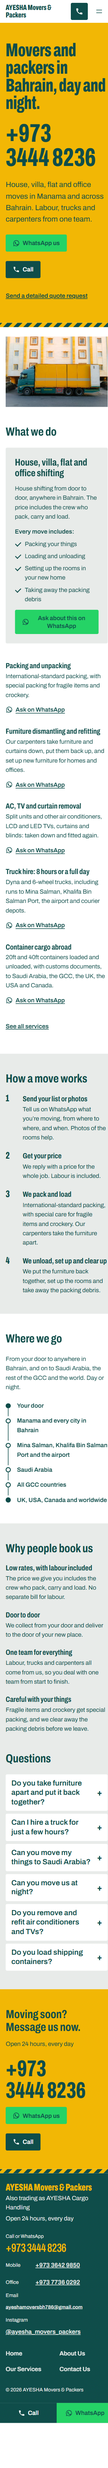
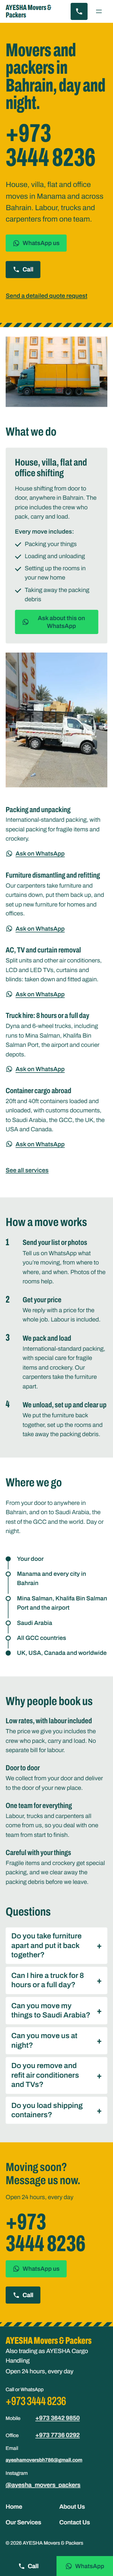
Phase 4 review fixes: photo 12 under the lead card, full-width route, FAQ truck question
- What we do: photo 12 (366x480, WebP, descriptive alt) under the lead service card;
  one Image block, so on phones it shows once between the card and the rows.
- Where we go: heading and intro on top; route across the full content width with
  auto-sized grid columns (each label at most 2 lines at 1280).
- FAQ: "Can I hire a truck for 8 hours or a full day?".
- Mobile gutters verified at 320/375/414 with phone emulation (16px both sides); the
  2px seen before came from the desktop scrollbar in the old screenshots.
- Screenshots re-taken (phones/tablet with emulation), before/after comparisons,
  docs/content re-exported, editing guide and PROGRESS test table updated.

diff --git a/docs/content/patterns/ayesha-where-we-go.html b/docs/content/patterns/ayesha-where-we-go.html
@@ -1,17 +1,13 @@
 <!-- wp:group {"metadata":{"name":"Where we go"},"tagName":"section","align":"full","className":"ayesha-section ayesha-where","style":{"spacing":{"padding":{"top":"var:preset|spacing|60","bottom":"var:preset|spacing|60"}}},"layout":{"type":"constrained"}} -->
-<section class="wp-block-group alignfull ayesha-section ayesha-where" style="padding-top:var(--wp--preset--spacing--60);padding-bottom:var(--wp--preset--spacing--60)"><!-- wp:columns {"className":"ayesha-where__columns","style":{"spacing":{"blockGap":{"top":"var:preset|spacing|40","left":"var:preset|spacing|50"}}}} -->
-<div class="wp-block-columns ayesha-where__columns"><!-- wp:column {"width":"38%"} -->
-<div class="wp-block-column" style="flex-basis:38%"><!-- wp:heading -->
+<section class="wp-block-group alignfull ayesha-section ayesha-where" style="padding-top:var(--wp--preset--spacing--60);padding-bottom:var(--wp--preset--spacing--60)"><!-- wp:heading -->
 <h2 class="wp-block-heading">Where we go</h2>
 <!-- /wp:heading -->
 
 <!-- wp:paragraph -->
 <p>From your door to anywhere in Bahrain, and on to Saudi Arabia, the rest of the GCC and the world. Day or night.</p>
-<!-- /wp:paragraph --></div>
-<!-- /wp:column -->
+<!-- /wp:paragraph -->
 
-<!-- wp:column {"width":"62%"} -->
-<div class="wp-block-column" style="flex-basis:62%"><!-- wp:list {"className":"ayesha-route"} -->
+<!-- wp:list {"className":"ayesha-route"} -->
 <ul class="wp-block-list ayesha-route"><!-- wp:list-item -->
 <li>Your door</li>
 <!-- /wp:list-item -->
@@ -35,7 +31,5 @@
 <!-- wp:list-item -->
 <li>UK, USA, Canada and worldwide</li>
 <!-- /wp:list-item --></ul>
-<!-- /wp:list --></div>
-<!-- /wp:column --></div>
-<!-- /wp:columns --></section>
+<!-- /wp:list --></section>
 <!-- /wp:group -->

diff --git a/docs/content/home.html b/docs/content/home.html
@@ -85,7 +85,10 @@
 <div class="wp-block-button is-style-whatsapp"><a class="wp-block-button__link wp-element-button" href="https://wa.me/97334448236">Ask about this on WhatsApp</a></div>
 <!-- /wp:button --></div>
 <!-- /wp:buttons --></div>
-<!-- /wp:group --></div>
+<!-- /wp:group -->
+<!-- wp:image {"id":12,"sizeSlug":"full","linkDestination":"none","className":"ayesha-services__photo"} -->
+<figure class="wp-block-image size-full ayesha-services__photo"><img src="http://localhost/ayesha-movers/wp-content/uploads/2026/10/pickup-loaded-with-household-goods.webp" alt="Small white pickup truck loaded with boxes and furniture outside a building" class="wp-image-12"/></figure>
+<!-- /wp:image --></div>
 <!-- /wp:column -->
 
 <!-- wp:column {"width":"42%","className":"ayesha-services__rows"} -->
@@ -337,7 +340,7 @@
 <!-- /wp:details -->
 
 <!-- wp:details -->
-<details class="wp-block-details"><summary>Can I hire a truck for just a few hours?</summary><!-- wp:paragraph -->
+<details class="wp-block-details"><summary>Can I hire a truck for 8 hours or a full day?</summary><!-- wp:paragraph -->
 <p>Yes. You can hire a Dyna or a 6-wheel truck for 8 hours or for a full day. We also do runs to Mina Salman, Khalifa Bin Salman Port, the airport and courier depots such as DHL, Aramex and GLS.</p>
 <!-- /wp:paragraph --></details>
 <!-- /wp:details -->
@@ -371,4 +374,3 @@
 <!-- /wp:group -->
 
 <!-- wp:block {"ref":26} /-->
-

diff --git a/wp-content/themes/ayesha-movers/assets/css/theme.css b/wp-content/themes/ayesha-movers/assets/css/theme.css
@@ -810,6 +810,17 @@ a[href^="mailto:"] {
 	transform: rotate(45deg);
 }
 
+/* Photo 12 under the lead card, at its natural size (366 x 480). */
+.ayesha-services__photo {
+	margin-block: var(--wp--preset--spacing--40) 0;
+}
+
+.ayesha-services__photo img {
+	display: block;
+	max-width: 100%;
+	height: auto;
+}
+
 .ayesha-services__rows > * {
 	margin-block: 0;
 }
@@ -949,12 +960,21 @@ a[href^="mailto:"] {
 	padding-block-end: 0;
 }
 
+/* The route runs across the full content width under the heading and intro. */
+.ayesha-where > .ayesha-route {
+	margin-block-start: var(--wp--preset--spacing--50);
+	max-inline-size: var(--wp--style--global--content-size);
+}
+
+/* Desktop: left to right, one row whatever the number of stops. Auto-sized grid columns:
+   short names keep their full width and the spare room goes to the long ones
+   (two lines at most at 1280px). */
 @media (min-width: 960px) {
 	.ayesha-route {
 		display: grid;
-		grid-template-columns: repeat(6, minmax(0, 1fr));
+		grid-auto-flow: column;
+		grid-auto-columns: auto;
 		column-gap: var(--wp--preset--spacing--30);
-		padding-block-start: var(--wp--preset--spacing--20);
 	}
 
 	.ayesha-route > li {

diff --git a/wp-content/themes/ayesha-movers/patterns/what-we-do.php b/wp-content/themes/ayesha-movers/patterns/what-we-do.php
@@ -4,12 +4,14 @@
  * Slug: ayesha-movers/what-we-do
  * Categories: ayesha-movers
  * Keywords: services, shifting, packing, furniture, trucks, cargo
- * Description: House shifting as the large lead card with what's included, then the other five services as short rows. Each title links to its section on Our Services; each WhatsApp link opens a chat with the service name already typed.
+ * Description: House shifting as the large lead card with what's included and a photo under it, then the other five services as short rows. Each title links to its section on Our Services; each WhatsApp link opens a chat with the service name already typed.
  *
  * @package AyeshaMovers
  */
 
 $ayesha_services_url = home_url( '/our-services/' );
+$ayesha_photo_url    = wp_get_attachment_image_url( 12, 'full' );
+$ayesha_photo_alt    = (string) get_post_meta( 12, '_wp_attachment_image_alt', true );
 
 /*
  * One compact service row. The WhatsApp link's message is in the button's binding ("message"),
@@ -73,11 +75,15 @@ $ayesha_row = static function ( $anchor, $title, $text, $service ) use ( $ayesha
 <!-- /wp:list -->
 
 <!-- wp:buttons -->
-<div class="wp-block-buttons"><!-- wp:button {"className":"is-style-whatsapp","metadata":{"bindings":{"url":{"source":"ayesha/business","args":{"key":"whatsapp_url","message":"Hi AYESHA Movers & Packers, I'd like a price for house, villa, flat or office shifting."}}},"name":"WhatsApp: house shifting"}} -->
+<div class="wp-block-buttons"><!-- wp:button {"className":"is-style-whatsapp","metadata":{"bindings":{"url":{"source":"ayesha/business","args":{"key":"whatsapp_url","message":"Hi AYESHA Movers \u0026 Packers, I'd like a price for house, villa, flat or office shifting."}}},"name":"WhatsApp: house shifting"}} -->
 <div class="wp-block-button is-style-whatsapp"><a class="wp-block-button__link wp-element-button" href="https://wa.me/97334448236">Ask about this on WhatsApp</a></div>
 <!-- /wp:button --></div>
 <!-- /wp:buttons --></div>
-<!-- /wp:group --></div>
+<!-- /wp:group --><?php if ( $ayesha_photo_url ) : ?>
+
+<!-- wp:image {"id":12,"sizeSlug":"full","linkDestination":"none","className":"ayesha-services__photo"} -->
+<figure class="wp-block-image size-full ayesha-services__photo"><img src="<?php echo esc_url( $ayesha_photo_url ); ?>" alt="<?php echo esc_attr( $ayesha_photo_alt ); ?>" class="wp-image-12"/></figure>
+<!-- /wp:image --><?php endif; ?></div>
 <!-- /wp:column -->
 
 <!-- wp:column {"width":"42%","className":"ayesha-services__rows"} -->

diff --git a/wp-content/themes/ayesha-movers/patterns/where-we-go.php b/wp-content/themes/ayesha-movers/patterns/where-we-go.php
@@ -16,19 +16,15 @@ if ( $ayesha_ref ) {
 }
 ?>
 <!-- wp:group {"metadata":{"name":"Where we go"},"tagName":"section","align":"full","className":"ayesha-section ayesha-where","style":{"spacing":{"padding":{"top":"var:preset|spacing|60","bottom":"var:preset|spacing|60"}}},"layout":{"type":"constrained"}} -->
-<section class="wp-block-group alignfull ayesha-section ayesha-where" style="padding-top:var(--wp--preset--spacing--60);padding-bottom:var(--wp--preset--spacing--60)"><!-- wp:columns {"className":"ayesha-where__columns","style":{"spacing":{"blockGap":{"top":"var:preset|spacing|40","left":"var:preset|spacing|50"}}}} -->
-<div class="wp-block-columns ayesha-where__columns"><!-- wp:column {"width":"38%"} -->
-<div class="wp-block-column" style="flex-basis:38%"><!-- wp:heading -->
+<section class="wp-block-group alignfull ayesha-section ayesha-where" style="padding-top:var(--wp--preset--spacing--60);padding-bottom:var(--wp--preset--spacing--60)"><!-- wp:heading -->
 <h2 class="wp-block-heading">Where we go</h2>
 <!-- /wp:heading -->
 
 <!-- wp:paragraph -->
 <p>From your door to anywhere in Bahrain, and on to Saudi Arabia, the rest of the GCC and the world. Day or night.</p>
-<!-- /wp:paragraph --></div>
-<!-- /wp:column -->
+<!-- /wp:paragraph -->
 
-<!-- wp:column {"width":"62%"} -->
-<div class="wp-block-column" style="flex-basis:62%"><!-- wp:list {"className":"ayesha-route"} -->
+<!-- wp:list {"className":"ayesha-route"} -->
 <ul class="wp-block-list ayesha-route"><!-- wp:list-item -->
 <li>Your door</li>
 <!-- /wp:list-item -->
@@ -52,7 +48,5 @@ if ( $ayesha_ref ) {
 <!-- wp:list-item -->
 <li>UK, USA, Canada and worldwide</li>
 <!-- /wp:list-item --></ul>
-<!-- /wp:list --></div>
-<!-- /wp:column --></div>
-<!-- /wp:columns --></section>
+<!-- /wp:list --></section>
 <!-- /wp:group -->

diff --git a/wp-content/themes/ayesha-movers/inc/pattern-parts.php b/wp-content/themes/ayesha-movers/inc/pattern-parts.php
@@ -51,7 +51,7 @@ function ayesha_theme_reasons_markup() {
 function ayesha_theme_questions_markup() {
 	$faq   = array(
 		array( 'Do you take furniture apart and put it back together?', 'Yes. Our carpenters dismantle your furniture before the move and fit them back together in your new home or office. They also take down and put up curtains, and set up new furniture.' ),
-		array( 'Can I hire a truck for just a few hours?', 'Yes. You can hire a Dyna or a 6-wheel truck for 8 hours or for a full day. We also do runs to Mina Salman, Khalifa Bin Salman Port, the airport and courier depots such as DHL, Aramex and GLS.' ),
+		array( 'Can I hire a truck for 8 hours or a full day?', 'Yes. You can hire a Dyna or a 6-wheel truck for 8 hours or for a full day. We also do runs to Mina Salman, Khalifa Bin Salman Port, the airport and courier depots such as DHL, Aramex and GLS.' ),
 		array( 'Can you move my things to Saudi Arabia?', 'Yes. We move households and offices to Saudi Arabia and the other GCC countries, and to the UK, the USA, Canada and worldwide. We also handle the customs documents.' ),
 		array( 'Can you move us at night?', 'Yes. We work 24 hours, day and night. Tell us the time that suits you.' ),
 		array( 'Do you remove and refit air conditioners and TVs?', 'Yes. We take down and fit split units and other air conditioners, LCD and LED TVs, and curtains and blinds.' ),

diff --git a/PROGRESS.md b/PROGRESS.md
@@ -35,7 +35,7 @@ Main goal: get mobile visitors to WhatsApp or call in one tap, or to send a deta
 | 9 | yellow-box-truck-residential-building | OK | Home hero (560px WebP copy). No caption; alt describes only what's visible |
 | 10 | movers-carrying-white-sofa | **PLACEHOLDER ONLY** | Looks like a stock photo; replace with a real client photo before go-live (or confirm licence) |
 | 11 | white-pickup-truck-cargo-rails | **DO NOT USE** | Shows phone number 0524070463 (not an AYESHA number) |
-| 12 | pickup-loaded-with-household-goods | OK | |
+| 12 | pickup-loaded-with-household-goods | OK | Home, under the house-shifting card (366 x 480, natural size, WebP). Alt describes only what's visible |
 | 13 | crew-loading-wrapped-furniture | **DO NOT USE** | Appears AI-generated |
 | 14 | red-curtain-side-truck | OK | |
 | 15 | large-box-truck-with-driver | OK | |
@@ -101,6 +101,8 @@ In the Media Library, the tags are prefixed to the title (`[DO NOT USE]`, `[PLAC
 - 2026-10-01: Shared sections: the theme's CTA band and Where we go patterns insert the synced pattern (found by slug) when it exists, otherwise the plain blocks.
 - 2026-10-01: Footer contact label column widened 4rem to 4.75rem ("Instagram" broke onto two lines at 1280px; Phase 3 issue found in Phase 4).
 - 2026-10-01: Lighthouse 12.8.2 run with `npx` (user approved the download). The first run hit "Fatal process out of memory" (about 1 GB of RAM free); each report was then run on its own from the npx cache.
+- 2026-10-01: Phase 4 review fixes (user request): photo 12 under the lead service card (one Image block; on phones it sits between the card and the rows); "Where we go" changed to heading + intro on top and the route across the full width (auto-sized grid columns, one row for any number of stops); FAQ "Can I hire a truck for 8 hours or a full day?". Mobile gutters were already equal (16px both sides): the 2px right gutter in the earlier screenshots came from the desktop browser's 15px scrollbar, so mobile screenshots are now taken with real phone emulation (no scrollbar).
+- 2026-10-01: WebP regeneration makes WordPress use the WebP copy as each photo's main file (photos 9 and 12); the uploaded JPEG is kept and recorded as `original_image`.
 - 2026-10-01: Outside this session, `phase-1-setup` was renamed to `main` and pushed to origin. `phase-1-setup` was recreated from `main` for the final Phase 1 commit, then fast-forward merged into `main`.
 
 ## Open questions for the client
@@ -195,7 +197,7 @@ Screenshots: `docs/screenshots/phase-3/` (`<width>-top.png` and `<width>-bottom.
 Before/after for the review fixes: `docs/screenshots/phase-3/compare-fix1-footer-375.png`, `compare-fix1-footer-320.png`, `compare-fix1-footer-1280.png`, `compare-fix2-header-1280.png`, `compare-fix3-menu-375.png`; originals in `before/` and `after/`, JSON-LD in `before/fix4-jsonld.json` and `after/fix4-jsonld.json`.
 
 ### Phase 4 (run 2026-10-01)
-Screenshots: `docs/screenshots/phase-4/` (`full-<width>.png` at 320, 375, 768, 1280, 1920; `hero-long-number-*.png`, `hero-no-photo-*.png`, `reviews-on-*.png`). In the full-page shots the sticky bar and floating button are pinned to the page bottom (where they sit once scrolled to the end) instead of mid-page. Lighthouse reports: `docs/lighthouse/phase-4/`.
+Screenshots: `docs/screenshots/phase-4/` (`full-<width>.png` at 320, 375, 414, 768 (taken with phone/tablet emulation: no scrollbar, touch) and 1280, 1920 (desktop browser); before/after of the review fixes: `compare-375.png`, `compare-1280.png`, originals in `before/`; `hero-long-number-*.png`, `hero-no-photo-*.png`, `reviews-on-*.png`). In the full-page shots the sticky bar and floating button are pinned to the page bottom (where they sit once scrolled to the end) instead of mid-page. Lighthouse reports: `docs/lighthouse/phase-4/`.
 
 | # | Test | Expected | Actual | Pass/Fail |
 |---|---|---|---|---|
@@ -210,7 +212,7 @@ Screenshots: `docs/screenshots/phase-4/` (`full-<width>.png` at 320, 375, 768, 1
 | 6 | Reviews hidden with the toggle off; visible with it on; off again | Off: not in the HTML; on: 3 placeholder cards | Off: 0 matches for `ayesha-reviews` / "Placeholder". On: 3 cards "Placeholder: replace with a real customer review" (`reviews-on-375.png`, `-1280.png`). Off again: 0 matches; settings identical to the backup | Pass |
 | 7 | Service WhatsApp links | Right number; URL-encoded text naming the service | 8 links in the page content, all `wa.me/97334448236`: hero + CTA band ("...a price for my move."), lead card ("...house, villa, flat or office shifting."), packing and unpacking, furniture dismantling and refitting, AC, TV or curtain removal and fitting, truck hire (Dyna or 6-wheel truck), international cargo (20ft or 40ft container). Encoded with `rawurlencode` (`%20`, `%26` for &, `%27` for ', `%28`/`%29` for brackets); each decodes back to the exact message | Pass |
 | 8 | Anchors to Our Services / Contact Us | Each goes to the right place | Links: `/our-services/#house-shifting`, `#packing`, `#furniture`, `#appliances`, `#trucks`, `#cargo`; "See all services" to `/our-services/`; "Send a detailed quote request" to `/contact-us/#quote`. Both pages return 200; **the target ids don't exist yet** (Our Services is built in Phase 5, the quote form in Phase 6) | Pass (anchors pending Phases 5/6) |
-| 9 | Responsive full-page screenshots | 5 widths, no h-scroll | `full-320/375/768/1280/1920.png`; page heights 6802 / 6259 / 5835 / 4238 / 4238 px; no horizontal scroll and no element past the right edge at any width | Pass |
+| 9 | Responsive full-page screenshots | 5 widths, no h-scroll | Re-taken after the review fixes: `full-320/375/414/768/1280/1920.png`; page heights 7232 / 6761 / 6638 / 6369 / 4293 / 4293 px; no horizontal scroll at any width | Pass |
 | 10 | Heading order | One H1, no skipped levels | Outline 1 2 3 3 3 3 3 3 2 2 2 3 3 3 3 2 2: one H1, no skips | Pass |
 | 11 | Images have alt text | All | 1 image (photo 9, 560px WebP, `fetchpriority=high`, width/height set), alt "Large yellow box truck with a green cab parked outside a residential apartment building" (no ownership claim). Photos 10, 11, 13 not used | Pass |
 | 12 | SEO title and meta description (design plan 7) | Exact text | `<title>` "Movers and Packers in Bahrain, 24 Hours &#124; AYESHA Movers" (55 chars); description exactly as the plan (154 chars) | Pass |
@@ -222,3 +224,9 @@ Screenshots: `docs/screenshots/phase-4/` (`full-<width>.png` at 320, 375, 768, 1
 | 18 | debug.log | Nothing new | No lines from Phase 4. The file holds only 3 older entries (10:58 and 12:10 UTC, before this session started) | Pass |
 | 19 | Mobile hero order (design plan 3.1) | Yellow text panel, strip, then photo on white | As expected at 320/375/768; desktop: photo on the yellow, bottom edge on the strip | Pass |
 | 20 | Desktop hero row | Quote link beside the buttons | After a fix: link and buttons share the same vertical middle (582.5 px) | Pass (after fix) |
+| 21 | Review fix 1: mobile gutters with real phone emulation (no scrollbar, touch, iPhone user agent) at 320 / 375 / 414 | Equal 16px gutter on both sides; nothing touches an edge | Checked every heading, paragraph, list item, button, card, FAQ box, image and column in the page content. Narrowest gutter left / right: 320: 16.0 / 16.0; 375: 16.0 / 16.0; 414: 16.3 / 16.3 (the theme's fluid side padding starts to grow above 375). No element touches either edge (the hero's yellow background is full-bleed by design; its content is inset 16px). Cause of the reported 2px: the earlier 375px screenshots were taken in a desktop browser whose 15px scrollbar takes space from the right. Measured against `visualViewport.width`, because the emulator reports 375.2 / 414.4 px even for a blank page | Pass (no CSS change needed; screenshots re-taken) |
+| 22 | Review fix 2: photo 12 under the lead card | Desktop: fills the gap on the left; phones: shown once, order unchanged | 1280: photo at 366 x 480 (natural size, WebP), alt "Small white pickup truck loaded with boxes and furniture outside a building"; the left column's content now ends about 30 px below the last row's link (before: the card ended about 480 px above it). 375: one `wp-image-12` on the page, between the lead card and the rows | Pass |
+| 23 | Review fix 3: Where we go, route across the full width | Each label at most 2 lines at 1280 | Heading and intro on top, route below across 1200px. Lines per label at 1280 and 1920: Your door 1, Manama and every city in Bahrain 2, Mina Salman, Khalifa Bin Salman Port and the airport 2 (was 6), Saudi Arabia 1, All GCC countries 1, UK, USA, Canada and worldwide 1. (At 960px the long label takes 3 lines) | Pass |
+| 24 | Review fix 4: FAQ truck question | Question and answer match | "Can I hire a truck for 8 hours or a full day?" / "Yes. You can hire a Dyna or a 6-wheel truck for 8 hours or for a full day. We also do runs to Mina Salman, Khalifa Bin Salman Port, the airport and courier depots such as DHL, Aramex and GLS." | Pass |
+| 25 | Hero number tests re-run after the CSS changes | Same results as tests 1-2 | Real and long number at 320 / 375 / 768 / 1280 / 1920: identical font sizes, line counts and widths to tests 1 and 2; no clipping, no h-scroll, whole number tappable. Business Info restored and identical to the backup | Pass |
+| 26 | Patterns still valid block markup after the fixes | Parse and serialize back unchanged | what-we-do, where-we-go, questions, why-and-questions: round-trip identical (the lead card's `&` now stored as `\u0026`, as the editor saves it) | Pass |

diff --git a/docs/editing-guide.md b/docs/editing-guide.md
@@ -123,6 +123,10 @@ Two sections are **synced patterns**: the yellow **CTA band** ("Moving soon? Mes
 - **WhatsApp us** and **Call** take their links from Business Info. You can change the button words.
 - **The photo is optional.** To remove it, click the photo and delete it (the ⋮ menu → **Delete**). The text then fills the whole width; nothing else needs to change. To add a photo back, click the empty photo column → **+** → **Image** and pick a photo from the Media Library, size *Photo (560px)*. Don't write a caption or alt text that says the truck is yours until that is confirmed.
 
+### Services: the photo under the house-shifting card
+
+The photo under the large grey "House, villa, flat and office shifting" card (the pickup loaded with boxes) is a normal Image block shown at its real size. Click it to replace it (**Replace** in the toolbar) or delete it. Keep the alt text a plain description of what is in the photo.
+
 ### Services: "Ask on WhatsApp" links
 
 Each service has a WhatsApp link that opens the chat with the service already typed, e.g. "Hi AYESHA Movers & Packers, I'd like a price for packing and unpacking." To change that message, use the code editor (⋮ → **Code editor**), find the service's `"message":"…"` and edit the words between the quotes (see section 3). The service titles link to the matching part of the Our Services page.
